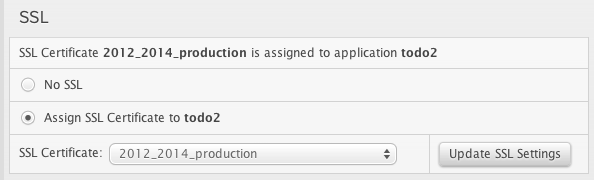
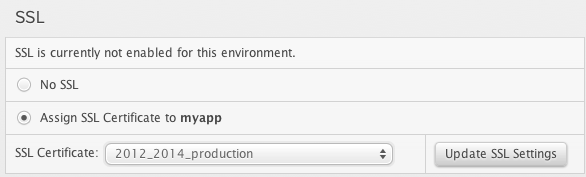
DOC-489 tweaking screenshots

Changed region(s): [[0.0, 0.226, 1.0, 0.9887], [0.0307, 0.0565, 0.0922, 0.1412]]

diff --git a/pages/ssl-certificates.md b/pages/ssl-certificates.md
@@ -198,7 +198,7 @@ After you've configured your SSL Certificate, tell Engine Yard Cloud which envir
 
 1. In your Dashboard, click the application environment that you want to add the certificate to.
 
-2. Click Assign SSL Certificate *your app*.
+2. Click Assign SSL Certificate to *app_name*.
 
 3. From the SSL Certificate drop-down, select the certificate.
 
